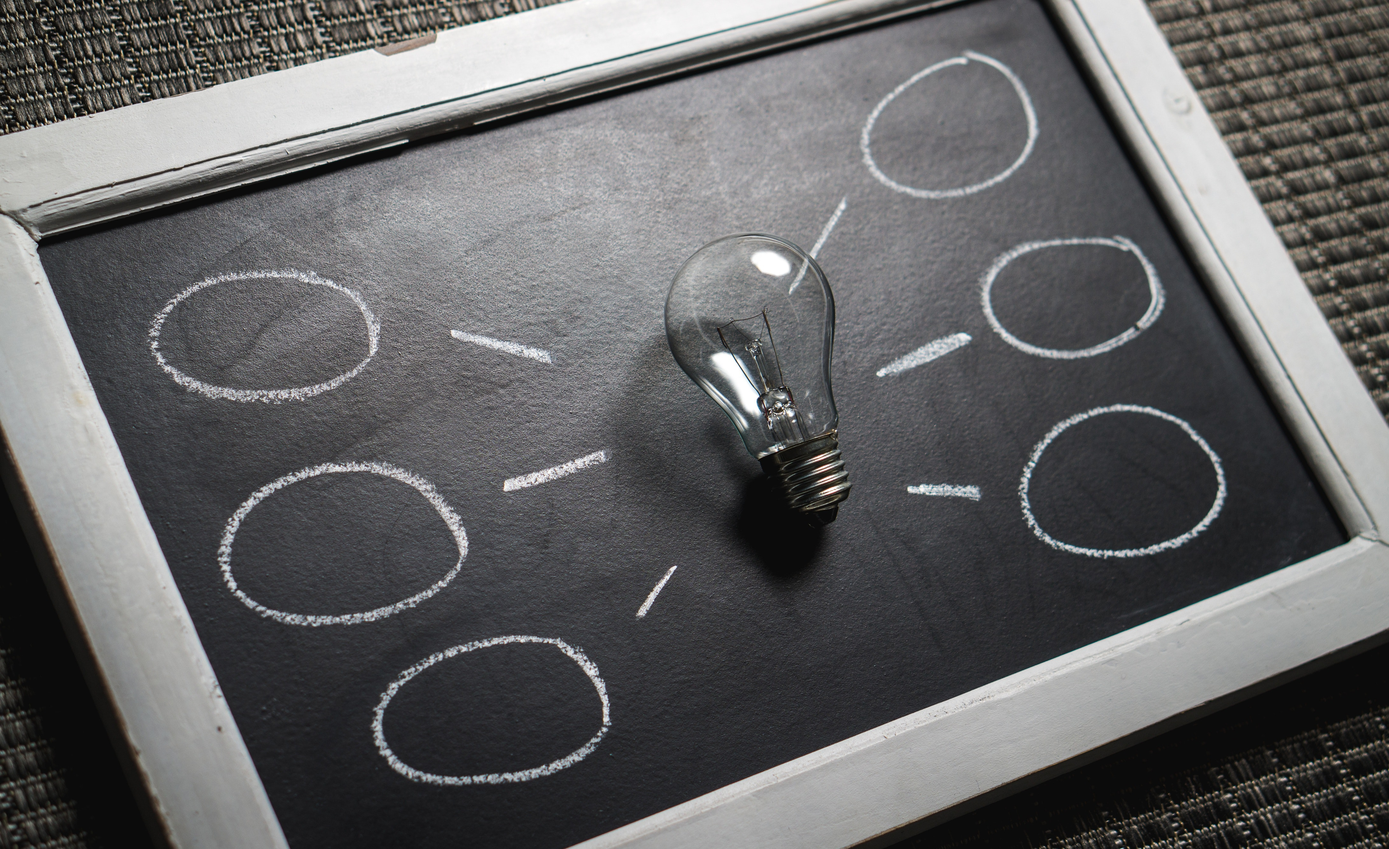
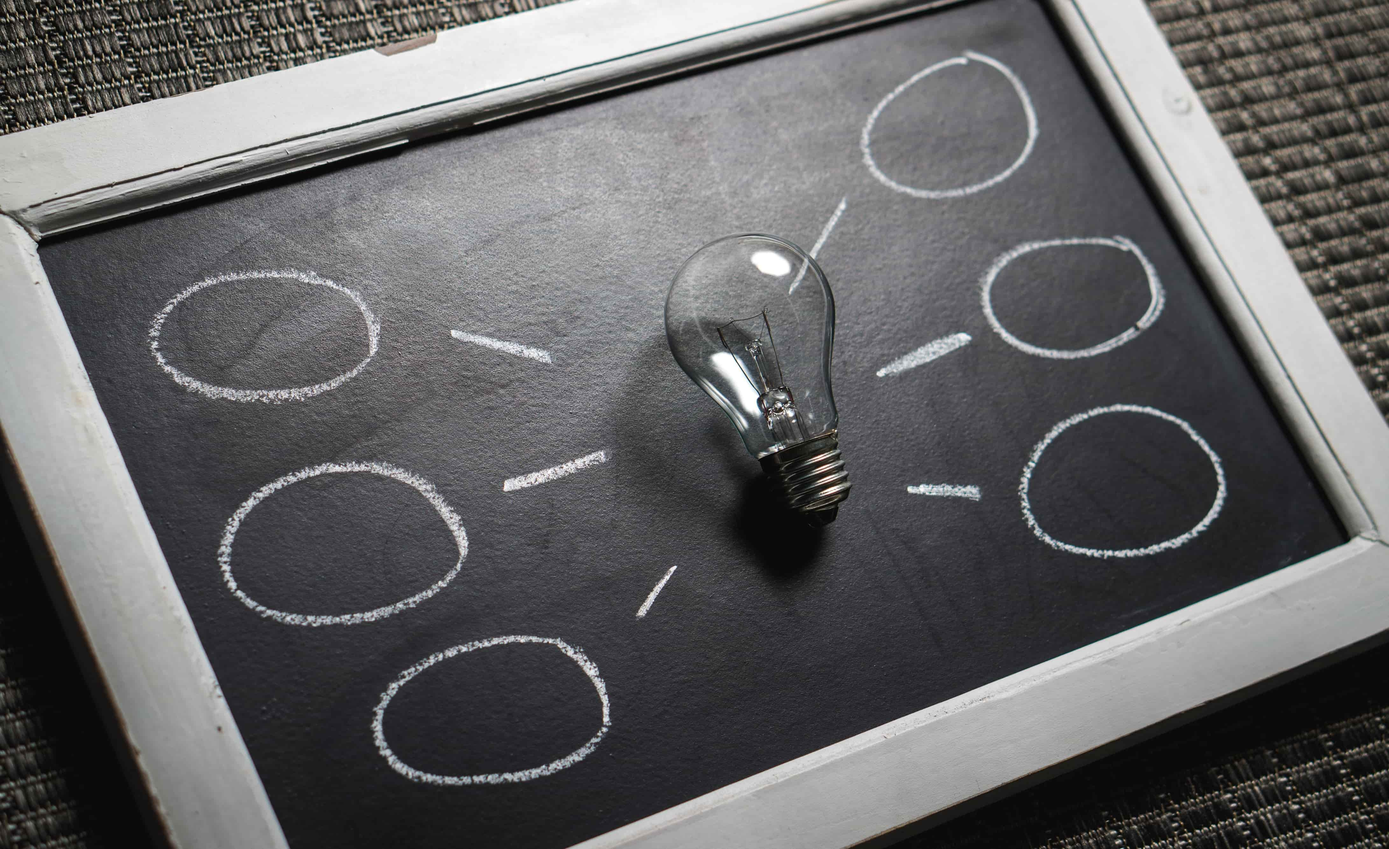
Compress photos.

Changed region(s): [[0.1247, 0.3112, 0.3428, 0.4668], [0.3428, 0.4668, 0.4363, 0.5913]]

diff --git a/data/articles.ts b/data/articles.ts
@@ -5,7 +5,7 @@ const articles = [
     slug: 'building-a-contact-form-with-next-js-and-nodemailer',
     description: 'A high level overview of how I implemented the contact form for my blog',
     welcomeImageUrl: '/pexels-pixabay-356043.jpg',
-    welcomeImageAltText: 'A screenshot of the contact form',
+    welcomeImageAltText: 'A light bulb set on a chalkboard backdrop',
     tags: ['nextjs', 'nodemailer', 'typescript'],
   },
 ];
